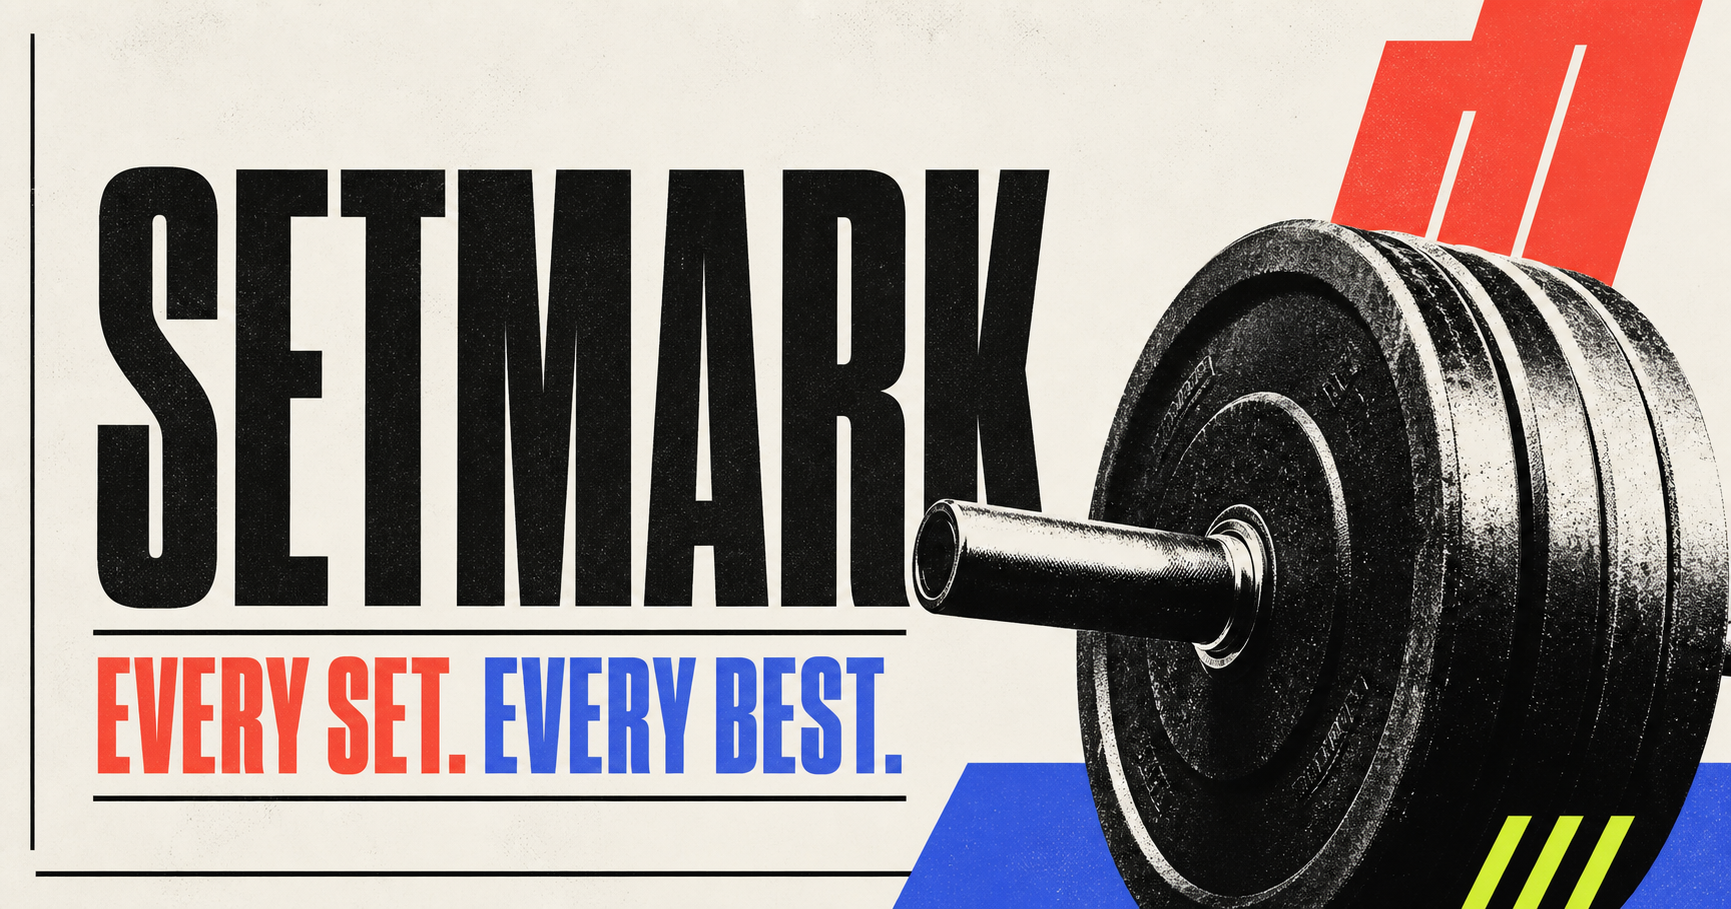
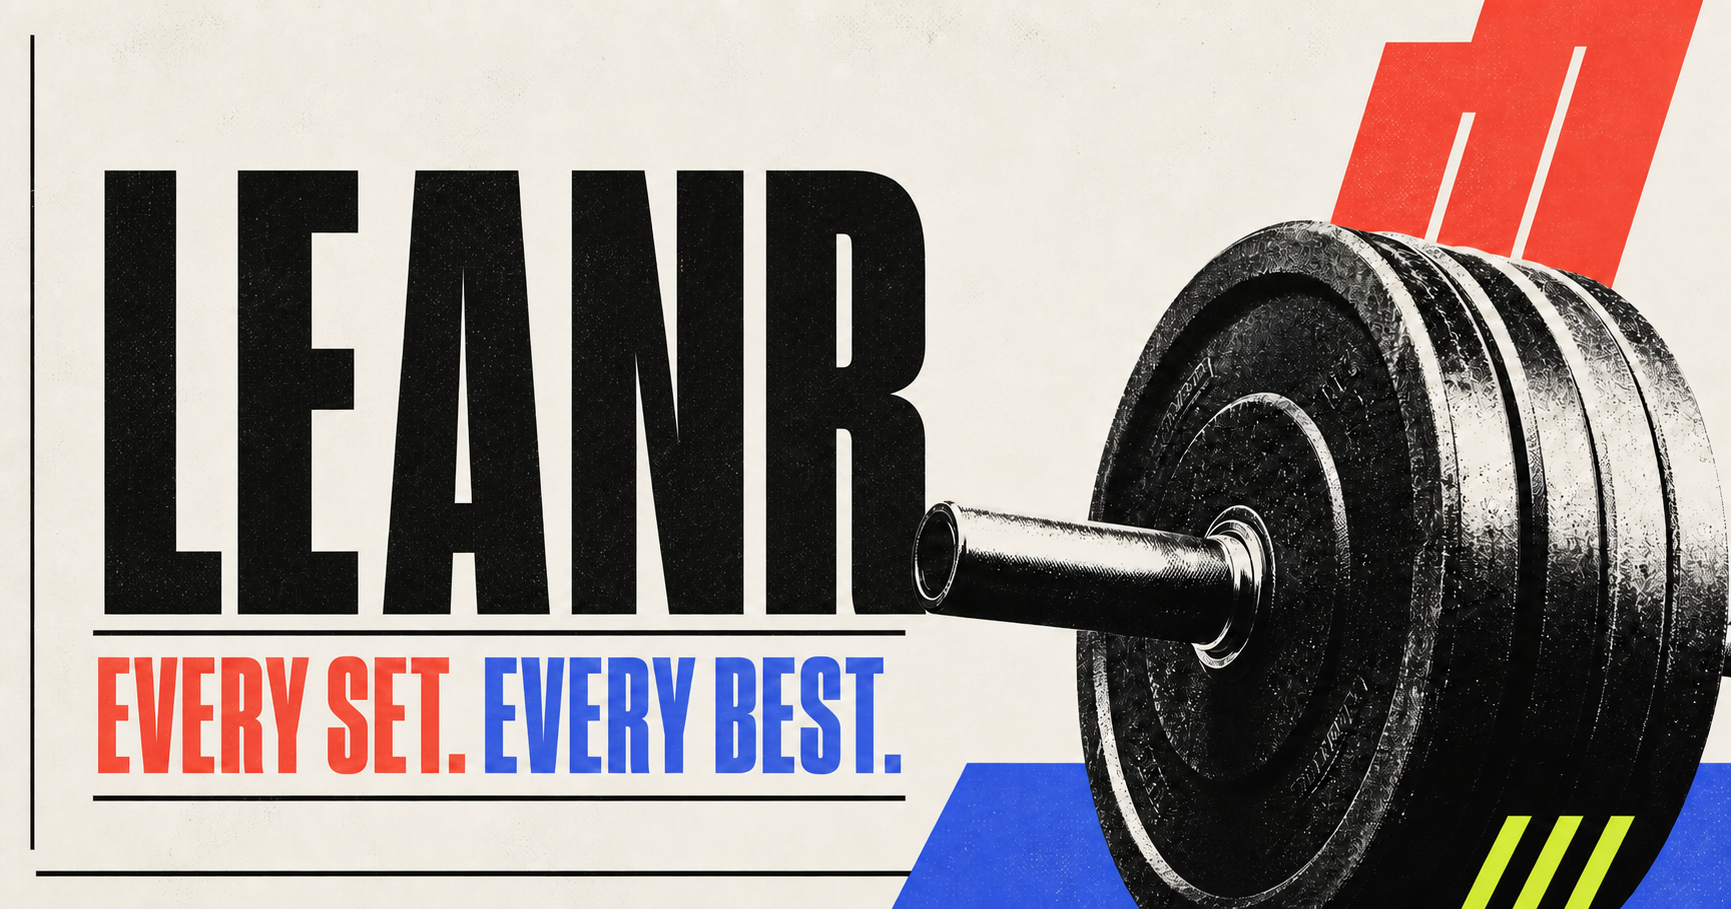
Rename app to Leanr

diff --git a/app/layout.tsx b/app/layout.tsx
@@ -3,17 +3,17 @@ import "./globals.css";
 
 export const metadata: Metadata = {
   metadataBase: new URL("https://leanr-bg.netlify.app"),
-  title: "Setmark — Training Log",
+  title: "Leanr — Training Log",
   description: "A fast, focused workout log for every set and every personal best.",
   icons: { icon: "/favicon.svg", shortcut: "/favicon.svg" },
   openGraph: {
-    title: "Setmark — Every Set. Every Best.",
+    title: "Leanr — Every Set. Every Best.",
     description: "A fast, focused workout log for every set and every personal best.",
-    images: [{ url: "/og.png", width: 1792, height: 1024, alt: "Setmark — Every Set. Every Best." }],
+    images: [{ url: "/og.png", width: 1792, height: 1024, alt: "Leanr — Every Set. Every Best." }],
   },
   twitter: {
     card: "summary_large_image",
-    title: "Setmark — Every Set. Every Best.",
+    title: "Leanr — Every Set. Every Best.",
     description: "A fast, focused workout log for every set and every personal best.",
     images: ["/og.png"],
   },

diff --git a/app/page.tsx b/app/page.tsx
@@ -80,7 +80,7 @@ export default function Home() {
   return (
     <main>
       <header className="topbar">
-        <a className="brand" href="#top" aria-label="Setmark home"><span>SM</span> SETMARK</a>
+        <a className="brand" href="#top" aria-label="Leanr home"><span>LR</span> LEANR</a>
         <div className="today"><i /> {new Intl.DateTimeFormat("en", { weekday: "short", month: "short", day: "numeric" }).format(new Date())}</div>
       </header>
 

diff --git a/README.md b/README.md
@@ -1,4 +1,4 @@
-# Setmark / Leanr
+# Leanr
 
 A mobile-first strength-training log for recording individual sets and tracking
 all-time best weights.
